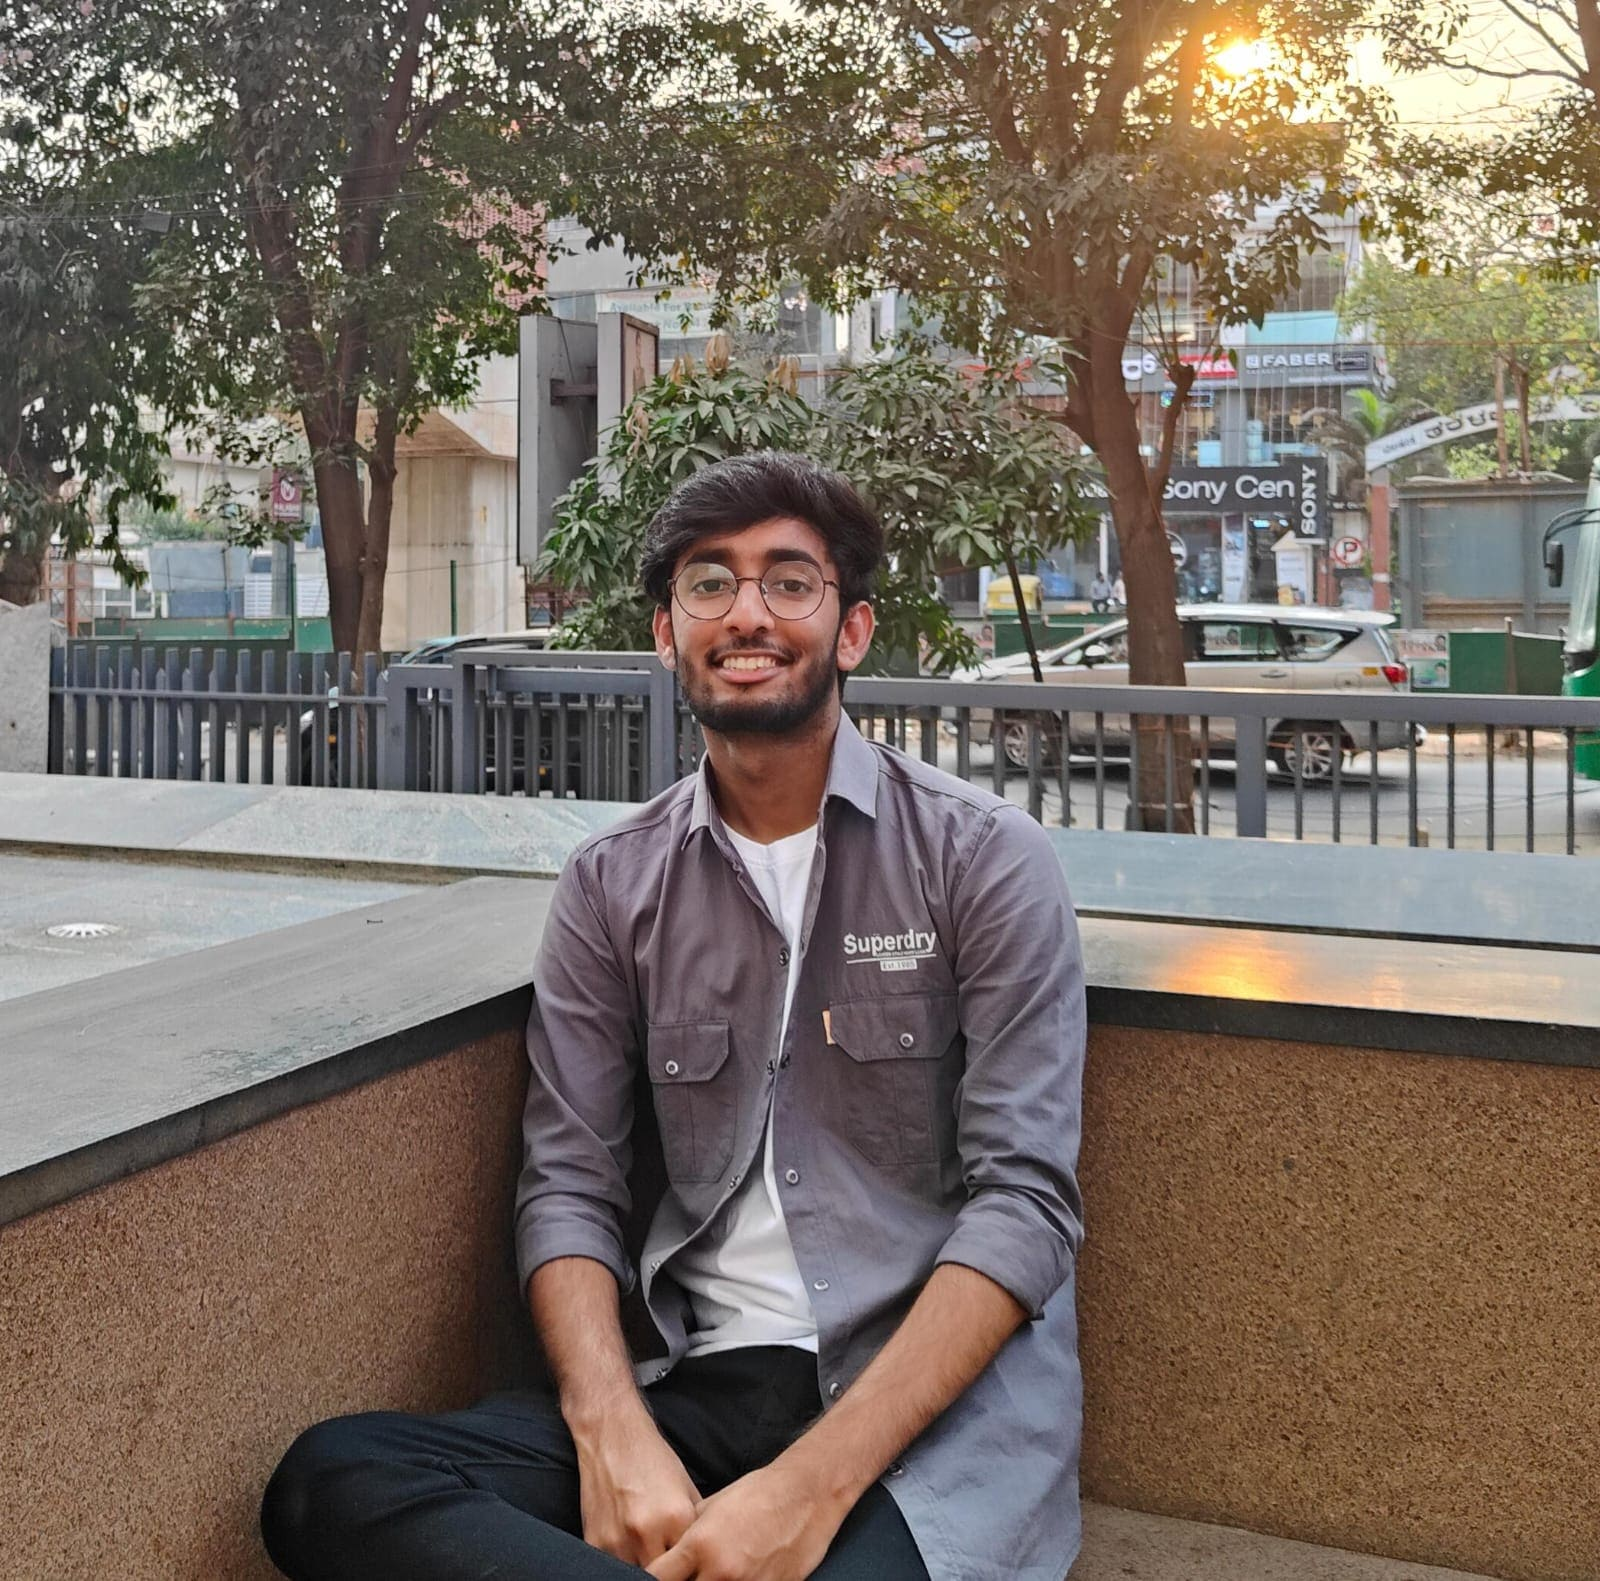
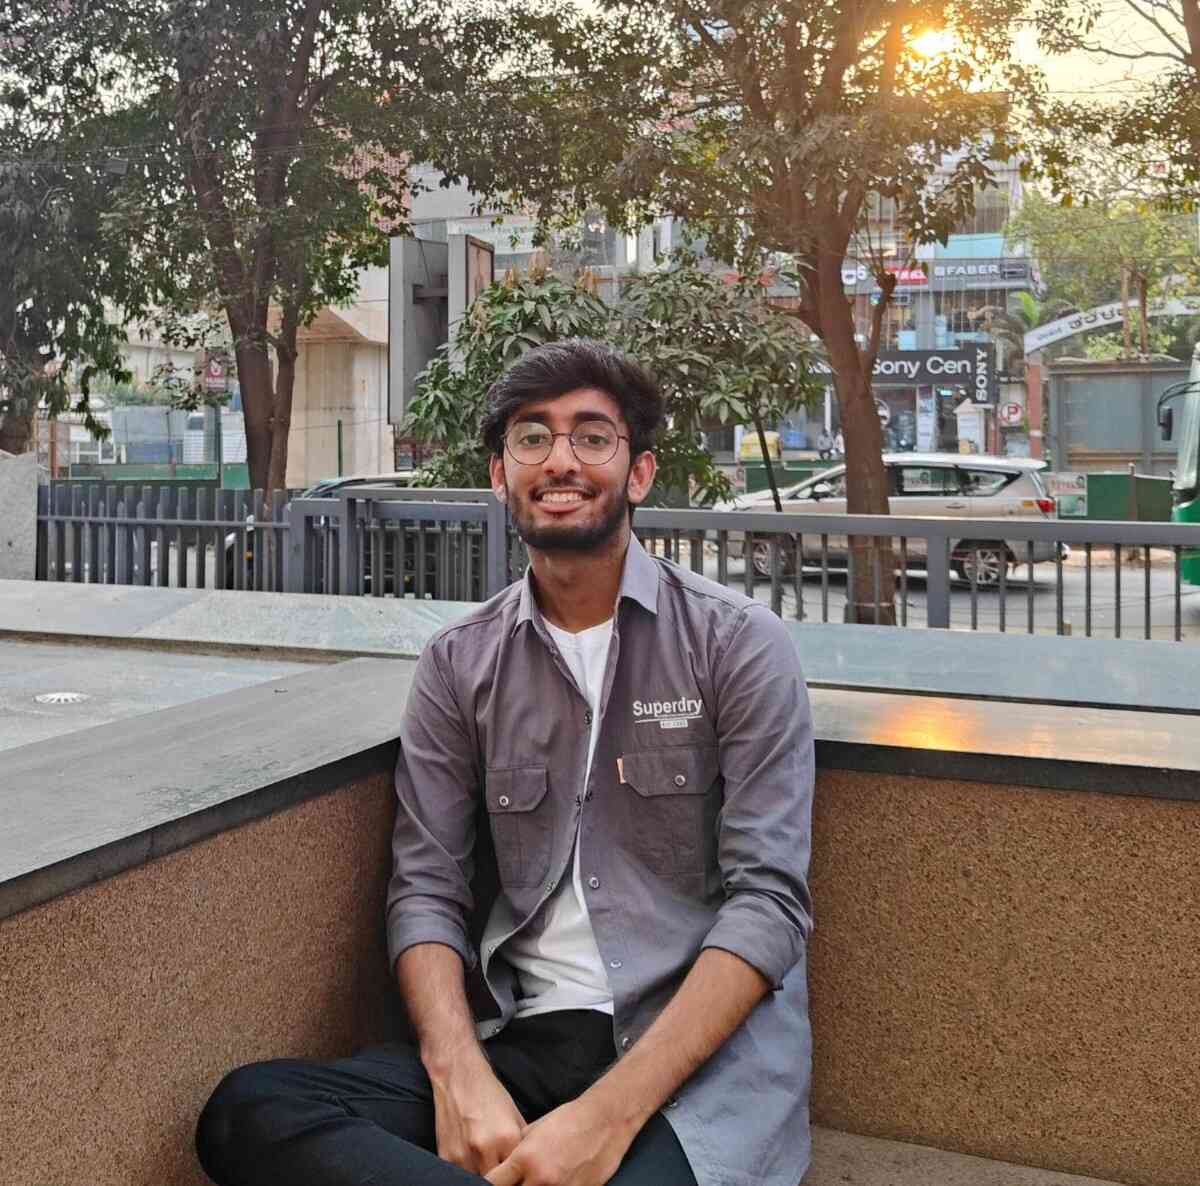
Compressed images, added lazy images loading with skimmer & restructured names of images

Changed region(s): [[0.74, 0.0312, 0.8017, 0.0624]]

diff --git a/src/data/Teams.js b/src/data/Teams.js
@@ -1,127 +1,126 @@
 export const teamMembers = [
     {
       name: "Ankit",
-      image: "./image/ankit copy.jpg",
+      image: "./image/ankit.jpg",
       github: "https://github.com/Tom",
       linkedin: "https://linkedin.com/in/Tom",
     },
     {
-        name: "Arvind",
-        image: "./image/arvind.jpg",
-        github: "https://github.com/Tom",
-        linkedin: "https://linkedin.com/in/Tom",
-      },{
-        name: "Arup",
-        image: "./image/Arup.jpg",
-        github: "https://github.com/Tom",
-        linkedin: "https://linkedin.com/in/Tom",
-      },{
-        name: "Arunita",
-        image: "./image/arunita2.png",
-        github: "https://github.com/Tom",
-        linkedin: "https://linkedin.com/in/Tom",
-      },{
-        name: "Utkarsh",
-        image: "./image/utkarsh6.jpg",
-        github: "https://github.com/Tom",
-        linkedin: "https://linkedin.com/in/Tom",
-      },{
-        name: "Sumit",
-        image: "./image/sumit.png",
-        github: "https://github.com/Tom",
-        linkedin: "https://linkedin.com/in/Tom",
-      },{
-        name: "Harsh Rai",
-        image: "./image/Harsh-Rai.png",
-        github: "https://github.com/Tom",
-        linkedin: "https://linkedin.com/in/Tom",
-      },{
-        name: "Shreya",
-        image: "./image/shreyav.png",
-        github: "https://github.com/Tom",
-        linkedin: "https://linkedin.com/in/Tom",
-      },{
-        name: "Om",
-        image: "./image/om1.jpg",
-        github: "https://github.com/Tom",
-        linkedin: "https://linkedin.com/in/Tom",
-      },{
-        name: "Nikunj",
-        image: "./image/NIKUNJ1.jpg",
-        github: "https://github.com/Tom",
-        linkedin: "https://linkedin.com/in/Tom",
-      },{
-        name: "Apoorva",
-        image: "./image/apoorva2.jpg",
-        github: "https://github.com/Tom",
-        linkedin: "https://linkedin.com/in/Tom",
-      },{
-        name: "Ansh",
-        image: "./image/ansh.jpg",
-        github: "https://github.com/Tom",
-        linkedin: "https://linkedin.com/in/Tom",
-      },{
-        name: "Bharath",
-        image: "./image/Bharath G P.jpg",
-        github: "https://github.com/Tom",
-        linkedin: "https://linkedin.com/in/Tom",
-      },
-      {
-        name: "Rishabh",
-        image: "./image/Me - Rishabh Kumar.jpg",
-        github: "https://github.com/Tom",
-        linkedin: "https://linkedin.com/in/Tom",
-      },
-      {
-          name: "Manyata",
-          image: "./image/Manyata.jpg",
-          github: "https://github.com/Tom",
-          linkedin: "https://linkedin.com/in/Tom",
-        },{
-          name: "Mohammed Sufyan",
-          image: "./image/Mohammed Sufyan B.jpg",
-          github: "https://github.com/Tom",
-          linkedin: "https://linkedin.com/in/Tom",
-        },{
-          name: "Mohammed Owais",
-          image: "./image/Mohammed Owais.jpg",
-          github: "https://github.com/Tom",
-          linkedin: "https://linkedin.com/in/Tom",
-        },{
-          name: "Pooja",
-          image: "./image/Pooja.jpeg",
-          github: "https://github.com/Tom",
-          linkedin: "https://linkedin.com/in/Tom",
-        },{
-          name: "Prajna",
-          image: "./image/Prajna Hegde.jpg",
-          github: "https://github.com/Tom",
-          linkedin: "https://linkedin.com/in/Tom",
-        },{
-          name: "Raghavendra",
-          image: "./image/Raghavendra Hande.jpg",
-          github: "https://github.com/Tom",
-          linkedin: "https://linkedin.com/in/Tom",
-        },{
-          name: "Saurav",
-          image: "./image/Saurav.jpg",
-          github: "https://github.com/Tom",
-          linkedin: "https://linkedin.com/in/Tom",
-        },{
-          name: "Nishtha",
-          image: "./image/Nishtha Shandilya.jpg",
-          github: "https://github.com/Tom",
-          linkedin: "https://linkedin.com/in/Tom",
-        },{
-          name: "Aishwarya",
-          image: "./image/ABiradar.jpg",
-          github: "https://github.com/Tom",
-          linkedin: "https://linkedin.com/in/Tom",
-        },{
-            name: "Carol",
-            image: "./image/Carol Dsilva.jpeg",
-            github: "https://github.com/Tom",
-            linkedin: "https://linkedin.com/in/Tom",
-          },
-    
+      name: "Arvind",
+      image: "./image/arvind.jpg",
+      github: "https://github.com/Tom",
+      linkedin: "https://linkedin.com/in/Tom",
+    },{
+      name: "Arup",
+      image: "./image/arup.jpg",
+      github: "https://github.com/Tom",
+      linkedin: "https://linkedin.com/in/Tom",
+    },{
+      name: "Arunita",
+      image: "./image/arunita.jpeg",
+      github: "https://github.com/Tom",
+      linkedin: "https://linkedin.com/in/Tom",
+    },{
+      name: "Utkarsh",
+      image: "./image/utkarsh.jpg",
+      github: "https://github.com/Tom",
+      linkedin: "https://linkedin.com/in/Tom",
+    },{
+      name: "Sumit",
+      image: "./image/sumit.jpeg",
+      github: "https://github.com/Tom",
+      linkedin: "https://linkedin.com/in/Tom",
+    },{
+      name: "Harsh Rai",
+      image: "./image/harsh.jpeg",
+      github: "https://github.com/Tom",
+      linkedin: "https://linkedin.com/in/Tom",
+    },{
+      name: "Shreya",
+      image: "./image/shreya.jpeg",
+      github: "https://github.com/Tom",
+      linkedin: "https://linkedin.com/in/Tom",
+    },{
+      name: "Om",
+      image: "./image/om.jpg",
+      github: "https://github.com/Tom",
+      linkedin: "https://linkedin.com/in/Tom",
+    },{
+      name: "Nikunj",
+      image: "./image/nikunj.jpg",
+      github: "https://github.com/Tom",
+      linkedin: "https://linkedin.com/in/Tom",
+    },{
+      name: "Apoorva",
+      image: "./image/apoorva.jpg",
+      github: "https://github.com/Tom",
+      linkedin: "https://linkedin.com/in/Tom",
+    },{
+      name: "Ansh",
+      image: "./image/ansh.jpg",
+      github: "https://github.com/Tom",
+      linkedin: "https://linkedin.com/in/Tom",
+    },{
+      name: "Bharath",
+      image: "./image/bharath.jpg",
+      github: "https://github.com/Tom",
+      linkedin: "https://linkedin.com/in/Tom",
+    },
+    {
+      name: "Rishabh",
+      image: "./image/rishabh.jpg",
+      github: "https://github.com/Tom",
+      linkedin: "https://linkedin.com/in/Tom",
+    },
+    {
+      name: "Manyata",
+      image: "./image/manyata.jpg",
+      github: "https://github.com/Tom",
+      linkedin: "https://linkedin.com/in/Tom",
+    },{
+      name: "Mohammed Sufyan",
+      image: "./image/sufyan.jpg",
+      github: "https://github.com/Tom",
+      linkedin: "https://linkedin.com/in/Tom",
+    },{
+      name: "Mohammed Owais",
+      image: "./image/owais.jpg",
+      github: "https://github.com/Tom",
+      linkedin: "https://linkedin.com/in/Tom",
+    },{
+      name: "Pooja",
+      image: "./image/pooja.jpeg",
+      github: "https://github.com/Tom",
+      linkedin: "https://linkedin.com/in/Tom",
+    },{
+      name: "Prajna",
+      image: "./image/prajna.jpg",
+      github: "https://github.com/Tom",
+      linkedin: "https://linkedin.com/in/Tom",
+    },{
+      name: "Raghavendra",
+      image: "./image/raghavendra.jpg",
+      github: "https://github.com/Tom",
+      linkedin: "https://linkedin.com/in/Tom",
+    },{
+      name: "Saurav",
+      image: "./image/saurav.jpg",
+      github: "https://github.com/Tom",
+      linkedin: "https://linkedin.com/in/Tom",
+    },{
+      name: "Nishtha",
+      image: "./image/nishtha.jpg",
+      github: "https://github.com/Tom",
+      linkedin: "https://linkedin.com/in/Tom",
+    },{
+      name: "Aishwarya",
+      image: "./image/aishwarya.jpg",
+      github: "https://github.com/Tom",
+      linkedin: "https://linkedin.com/in/Tom",
+    },{
+      name: "Carol",
+      image: "./image/carol.jpeg",
+      github: "https://github.com/Tom",
+      linkedin: "https://linkedin.com/in/Tom",
+    }
   ];

diff --git a/src/components/Team.jsx b/src/components/Team.jsx
@@ -1,17 +1,20 @@
 import React, { useState } from "react";
-import { FaGithub, FaLinkedin } from "react-icons/fa";
-import {teamMembers} from '../data/Teams'
-
-
+import { teamMembers } from '../data/Teams';
 
 const ITEMS_PER_PAGE = 6;
 
 const Team = () => {
   const [currentPage, setCurrentPage] = useState(1);
+  const [imageLoaded, setImageLoaded] = useState({});
+
   const totalPages = Math.ceil(teamMembers.length / ITEMS_PER_PAGE);
 
   const handlePageChange = (page) => {
     setCurrentPage(page);
+  };
+
+  const handleImageLoad = (index) => {
+    setImageLoaded((prev) => ({ ...prev, [index]: true }));
   };
 
   const paginatedMembers = teamMembers.slice(
@@ -24,35 +27,38 @@ const Team = () => {
       <h1 className="text-4xl font-bold text-center">Team</h1>
       <p className="text-center text-3xl mt-2 mb-8">Collaboration Is Our Strength!</p>
       <div className="grid grid-cols-1 sm:grid-cols-2 md:grid-cols-3 gap-8">
-        {paginatedMembers.map((member, index) => (
-          <div key={index} className="text-center">
-            <img
-              src={member.image}
-              alt={member.name}
-              className="rounded-full mx-auto mb-4 w-40 h-40 object-cover"
-            />
-            <h2 className="text-xl font-medium">{member.name}</h2>
-            <div className="mt-2 flex justify-center space-x-4">
-              <a href={member.github} target="_blank" rel="noopener noreferrer">
-                {/* <FaGithub className="text-2xl" /> */}
-              </a>
-              <a href={member.linkedin} target="_blank" rel="noopener noreferrer">
-                {/* <FaLinkedin className="text-2xl" /> */}
-              </a>
+        {
+          paginatedMembers.map((member, index) => (
+            <div key={`${member.name}-${index}`} className="text-center">
+              <div className="relative w-40 h-40 mx-auto mb-4">
+                { !imageLoaded[(currentPage - 1) * ITEMS_PER_PAGE + index] && (
+                  <div className="absolute inset-0 bg-gray-400 animate-pulse rounded-full"></div>
+                )}
+                <img
+                  loading="lazy"
+                  alt={member.name}
+                  src={member.image}
+                  onLoad={() => handleImageLoad((currentPage - 1) * ITEMS_PER_PAGE + index)}
+                  className={`rounded-full object-cover w-40 h-40`}
+                />
+              </div>
+              <h2 className="text-xl font-medium">{member.name}</h2>
             </div>
-          </div>
-        ))}
+          ))
+        }
       </div>
       <div className="mt-8 flex justify-center space-x-4">
-        {Array.from({ length: totalPages }, (_, index) => (
-          <button
-            key={index}
-            className={`px-4 py-2 rounded ${currentPage === index + 1 ? 'bg-blue-500 text-white' : 'bg-gray-200'}`}
-            onClick={() => handlePageChange(index + 1)}
-          >
-            {index + 1}
-          </button>
-        ))}
+        {
+          Array.from({ length: totalPages }, (_, index) => (
+            <button
+              key={`b-${index}`}
+              className={`px-4 py-2 rounded ${currentPage === index + 1 ? 'bg-blue-500 text-white' : 'bg-gray-200'}`}
+              onClick={() => handlePageChange(index + 1)}
+            >
+              {index + 1}
+            </button>
+          ))
+        }
       </div>
     </div>
   );

diff --git a/src/data/Testimonial.js b/src/data/Testimonial.js
@@ -1,55 +1,55 @@
 export const testimonials = [
   {
-    image: "./image/Manyata.jpg",
+    image: "./image/manyata.jpg",
     qualification: "Web Development",
     name: "Manyata",
     message:
       "It was a great experience attending the CSOC. We learnt many things. Our mentors were very supportive, helping us throughout the journey. It helped us to push ourselves forward in our journey of coding.",
   },
   {
-    image: "./image/Bharath G P.jpg",
+    image: "./image/bharath.jpg",
     qualification: "Web Development",
     name: "Bharath G P",
     message:
       "My journey in the tech team has been transformative, and I am grateful for the opportunities I have had to learn, grow, and collaborate with exceptional professionals.",
   },
   {
-    image: "./image/Pooja.jpeg",
+    image: "./image/pooja.jpeg",
     qualification: "Web Development",
     name: "Pooja Rai",
     message:
       "It was a great experience attending the CSOC 2023. Our mentors were very supportive, helping us throughout the journey. It helped us to push ourselves forward in the journey of coding.",
   },
   {
-    image: "./image/Raghavendra Hande.jpg",
+    image: "./image/raghavendra.jpg",
     qualification: "App Development",
     name: "Raghavendra Hande",
     message:
       "CSOC 2023 was an amazing experience. Got amazing mentors who gave my coding journey the boost that it needed.",
   },
   {
-    image: "./image/Carol Dsilva.jpeg",
+    image: "./image/carol.jpeg",
     qualification: "App Development",
     name: "Carol Dsilva",
     message:
       'It was a wonderful experience gaining hands-on knowledge. It made me feel like a "coder" for the first time. I explored the basics of web dev and came to realize that tech is an ever-evolving field; there is always a next step. The mentors allowed me to progress at my own pace and were always ready to address any doubts I had!',
   },
   {
-    image: "./image/Mohammed Sufyan B.jpg",
+    image: "./image/sufyan.jpg",
     qualification: "DSA",
     name: "Mohammed Sufyan B",
     message:
       "This CSOC sparked a significant interest in technology. The supportive environment fostered by the instructors and peers provided invaluable guidance, which equipped me to begin my tech journey on a strong foundation. It undoubtedly enhanced my overall development in the field.",
   },
   {
-    image: "./image/Saurav.jpg",
+    image: "./image/saurav.jpg",
     qualification: "Web Development",
     name: "Saurabh Singh",
     message:
       "It was really an amazing experience in CSOC. I learned so many new things and explored web development, but I quit at the end. However, I really liked this experience and after CSOC, I believed in myself and started once again in web development, focusing on the frontend part. I completed up to JS.",
   },
   {
-    image: "./image/Prajna Hegde.jpg",
+    image: "./image/prajna.jpg",
     qualification: "UI/UX",
     name: "Prajna Hegde",
     message:
